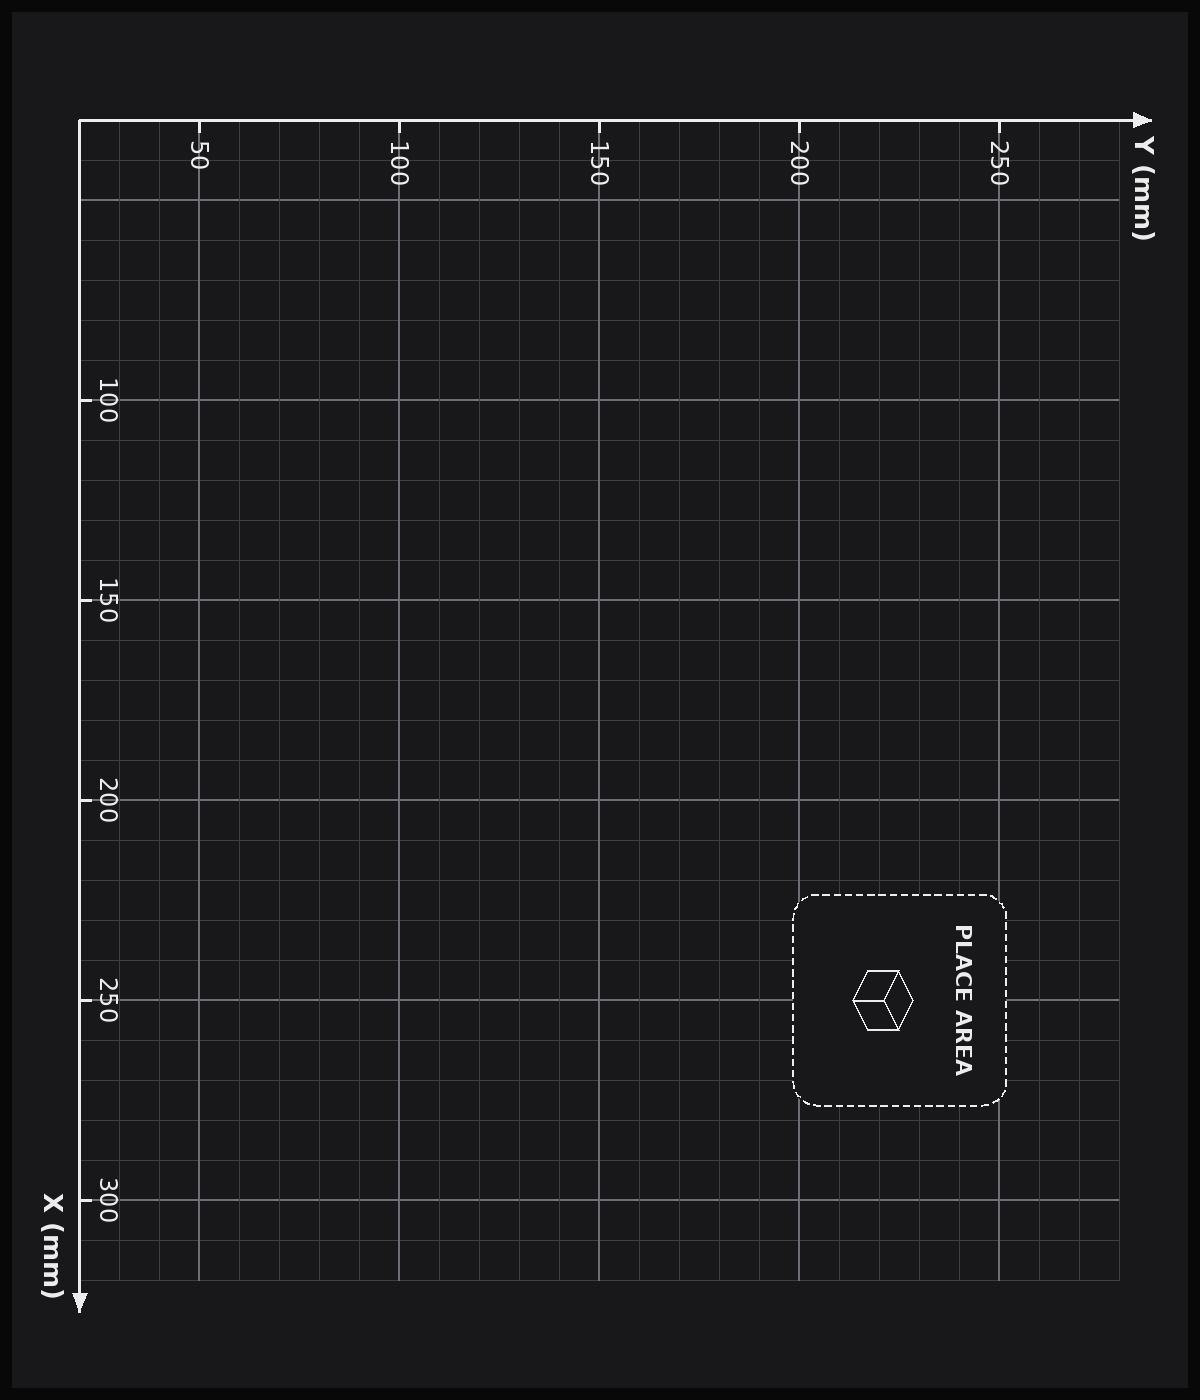
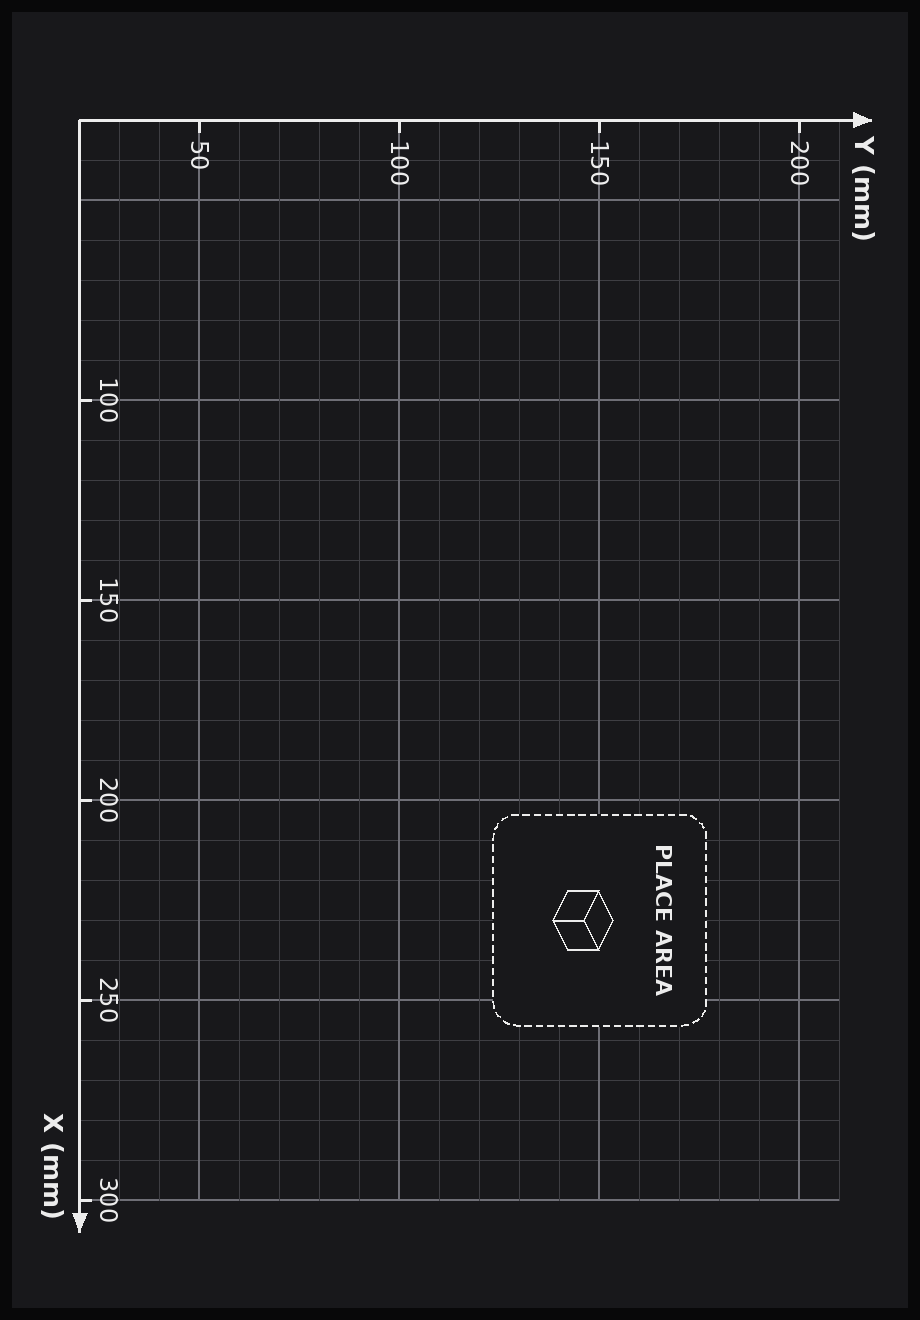
Match the hands-on mat to the session (ticks to X 300, Y 200) and add its image

Changed region(s): [[0.0304, 0.0621, 0.9739, 0.9318], [0.5783, 0.6833, 0.6696, 0.7455]]

diff --git a/hands-on/sim-reproduction/handson_scene.py b/hands-on/sim-reproduction/handson_scene.py
@@ -34,15 +34,17 @@ CUBE_JOINTS = tuple(f"{cube}:joint" for cube in CUBES)
 CUBE_HALF = 0.01
 """Half the cube's edge, in metres."""
 PLACE_AREA = "place_area"
-PLACE_AREA_XY = (0.285, -0.15)
-"""World position of the PLACE AREA's centre; must match the XML and make_mat_texture.py."""
+PLACE_AREA_XY = (0.21, -0.13)
+"""World position of the PLACE AREA's centre (mat X 230, Y 150 mm); must match the XML and make_mat_texture.py."""
 PLACE_AREA_HALF = 0.0265
 """Half the PLACE AREA's side, in metres."""
+MAT_XY = ((0.075, 0.275), (-0.215, 0.085))
+"""Where cube centres may go: the mat (world x 0.06-0.29, y -0.23 to 0.10) less 15 mm at the edges."""
 
-# Cubes spawn on an arc in front of the arm, on the mat: x 0.13-0.30 m, y -0.12 to +0.09 m.
-SPAWN_CENTER = (0.06, -0.045)
-SPAWN_MIN_R, SPAWN_MAX_R = 0.09, 0.24
-SPAWN_ANGLE_HALF_DEG = 36.0
+# Cubes spawn on an arc in front of the arm, on the mat: x 0.12-0.27 m, y -0.06 to +0.08 m.
+SPAWN_CENTER = (0.0, -0.01)
+SPAWN_MIN_R, SPAWN_MAX_R = 0.13, 0.27
+SPAWN_ANGLE_HALF_DEG = 20.0
 CUBE_MIN_SEP = 0.08
 """Cube centres at least 8 cm apart, so the open jaws never touch a neighbour."""
 PLACE_MIN_SEP = 0.10
@@ -54,8 +56,8 @@ def reset_cubes(model: object, data: object, rng: np.random.Generator, robot_roo
     """Put the three cubes at random, well-separated positions with random yaws.
 
     The plugin's own sampler keeps the last draw when a crowded layout has no clear position
-    left; here a whole layout is drawn again until every cube is clear of the others, of the
-    PLACE AREA and of the arm.
+    left; here a whole layout is drawn again until every cube is on the mat and clear of the
+    others, of the PLACE AREA and of the arm.
     """
     import mujoco  # noqa: PLC0415
 
@@ -80,7 +82,9 @@ def reset_cubes(model: object, data: object, rng: np.random.Generator, robot_roo
         apart = all(np.hypot(*(p[a] - p[b])) >= CUBE_MIN_SEP for a in range(len(p)) for b in range(a))
         clear = all(np.hypot(*(q - PLACE_AREA_XY)) >= PLACE_MIN_SEP for q in p)
         off_arm = footprint is None or all(footprint.distance(tuple(q)) >= padding for q in p)
-        if apart and clear and off_arm:
+        (x0, x1), (y0, y1) = MAT_XY
+        on_mat = bool(np.all((p[:, 0] >= x0) & (p[:, 0] <= x1) & (p[:, 1] >= y0) & (p[:, 1] <= y1)))
+        if apart and clear and off_arm and on_mat:
             break
     for joint, xy in zip(CUBE_JOINTS, positions, strict=True):
         place_freejoint(model, data, joint, xy, rng, z=CUBE_HALF + 0.002)

diff --git a/hands-on/sim-reproduction/make_mat_texture.py b/hands-on/sim-reproduction/make_mat_texture.py
@@ -1,6 +1,6 @@
 """Draw the work-mat texture for the hands-on scene: ``scenes/handson_mat.png``.
 
-Laid out like the session's workspace mat (without its printing or logos): a black 350 x 300 mm
+Laid out like the session's workspace mat (without its printing or logos): a black 330 x 230 mm (ticks to X 300, Y 200)
 mat with a 10 mm grid and a 50 mm major grid, an X axis along the long edge and a Y axis along
 the short edge, both in millimetres, and a dashed PLACE AREA.
 
@@ -24,12 +24,12 @@ from PIL import Image, ImageDraw, ImageFont
 OUT = Path(__file__).resolve().parent / "scenes" / "handson_mat.png"
 
 # Mat size in mm. Must match the `mat` geom in scenes/handson_pick_place.xml:
-# centre (0.06 + 0.150, 0.10 - 0.175) = (0.21, -0.075), half sizes (0.150, 0.175).
-MAT_X, MAT_Y = 350, 300
+# centre (0.06 + 0.115, 0.10 - 0.165) = (0.175, -0.065), half sizes (0.115, 0.165).
+MAT_X, MAT_Y = 330, 230
 PX_PER_MM = 4
 
-# PLACE AREA centre and side in mat mm. Must match the `place_area` body: world (0.285, -0.15).
-PLACE_X, PLACE_Y, PLACE_SIDE = 250, 225, 53
+# PLACE AREA centre and side in mat mm. Must match the `place_area` body: world (0.21, -0.13).
+PLACE_X, PLACE_Y, PLACE_SIDE = 230, 150, 53
 
 FONT_BOLD = "/usr/share/fonts/truetype/dejavu/DejaVuSans-Bold.ttf"
 FONT = "/usr/share/fonts/truetype/dejavu/DejaVuSans.ttf"

diff --git a/hands-on/sim-reproduction/pick_place_demo.py b/hands-on/sim-reproduction/pick_place_demo.py
@@ -82,7 +82,7 @@ class PickPlaceStats:
 
 
 def handson_config(target_cube: str = "cube_red") -> PickPlaceConfig:
-    """Config for the hands-on scene: 2 cm cubes, a 53 mm square PLACE AREA about 32 cm out."""
+    """Config for the hands-on scene: 2 cm cubes, a 53 mm square PLACE AREA about 25 cm out."""
     return PickPlaceConfig(
         cube=target_cube,
         target="place_area",

diff --git a/hands-on/README.md b/hands-on/README.md
@@ -74,6 +74,12 @@ python3 ~/intel-ai-summit-seoul-2026/hands-on/sim-reproduction/eval_drive.py --t
 
 ### M4 result
 
+<p align="center">
+  <img src="images/sim-m4-mat.png" alt="Simulated work mat with a millimetre grid, X and Y axes, and a dashed PLACE AREA" width="60%">
+  <br>
+  <em>The simulated work mat, with ticks to X 300 and Y 200 mm as on the session mat. The arm stands below the X axis at X = 100 mm, facing +Y.</em>
+</p>
+
 The hands-on scene, `handson_pick_place`, copies the session's table: blue, red, and yellow 2 cm cubes and a square PLACE AREA on a work mat with a millimetre grid. In drive mode the demonstrator moved the red cube into the PLACE AREA in **20 of 20 trials (100%)**; an episode judge in the scene counted each success and then reset the cubes to random positions.
 
 ```bash
